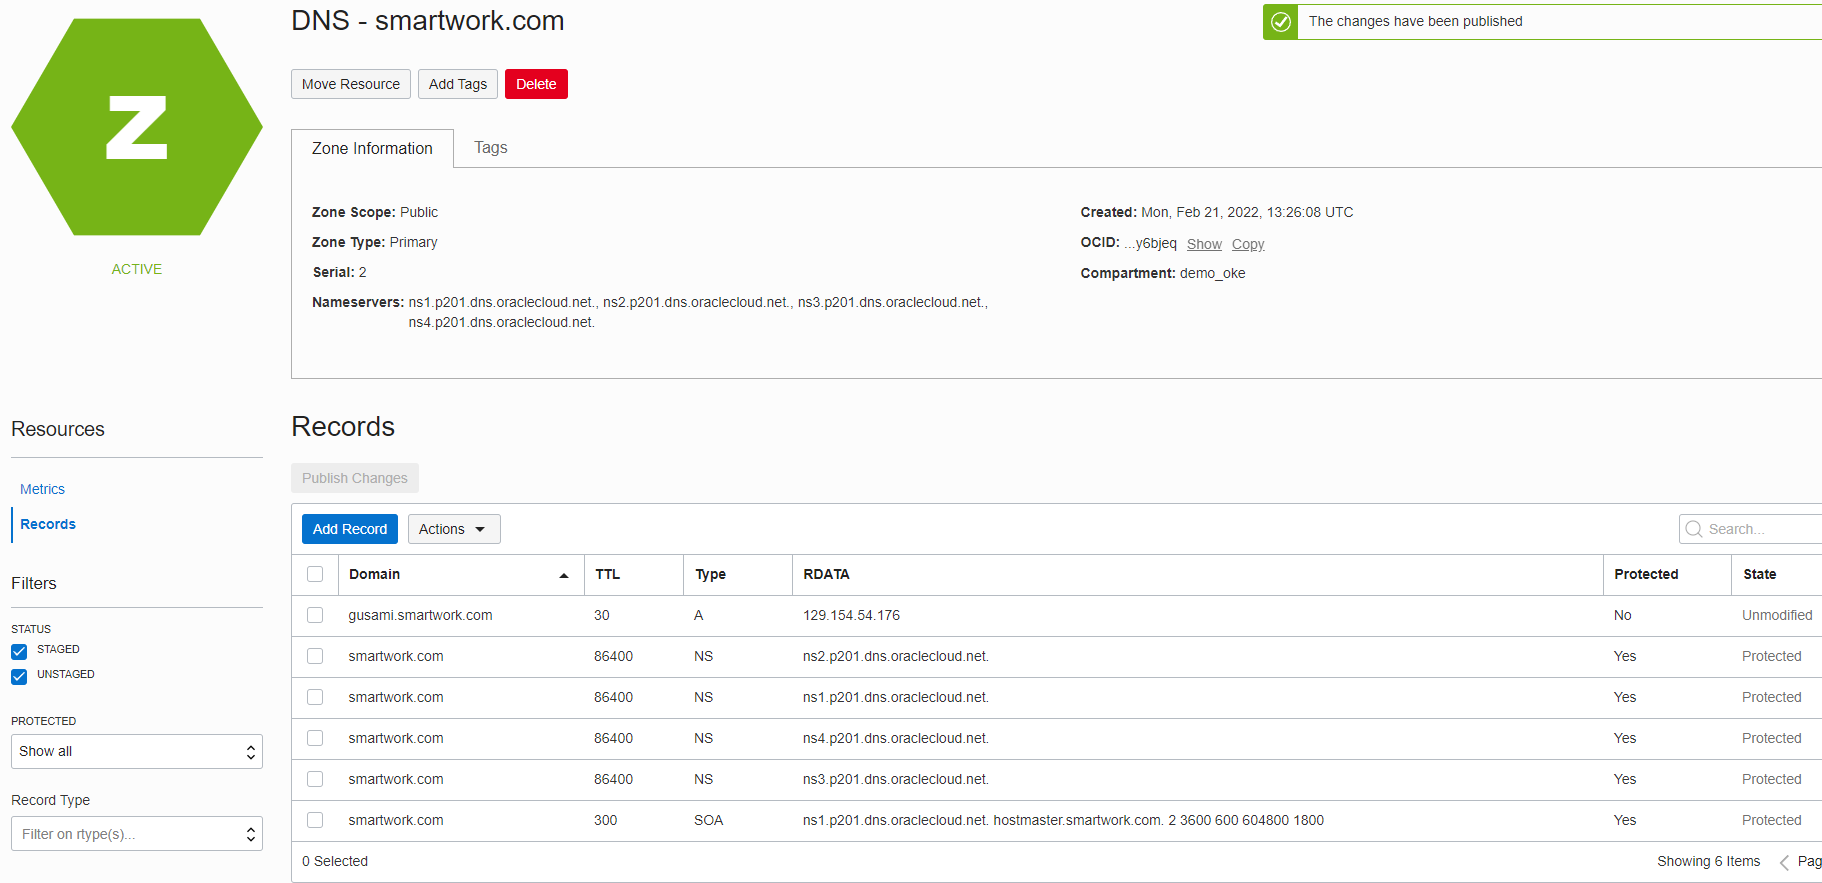
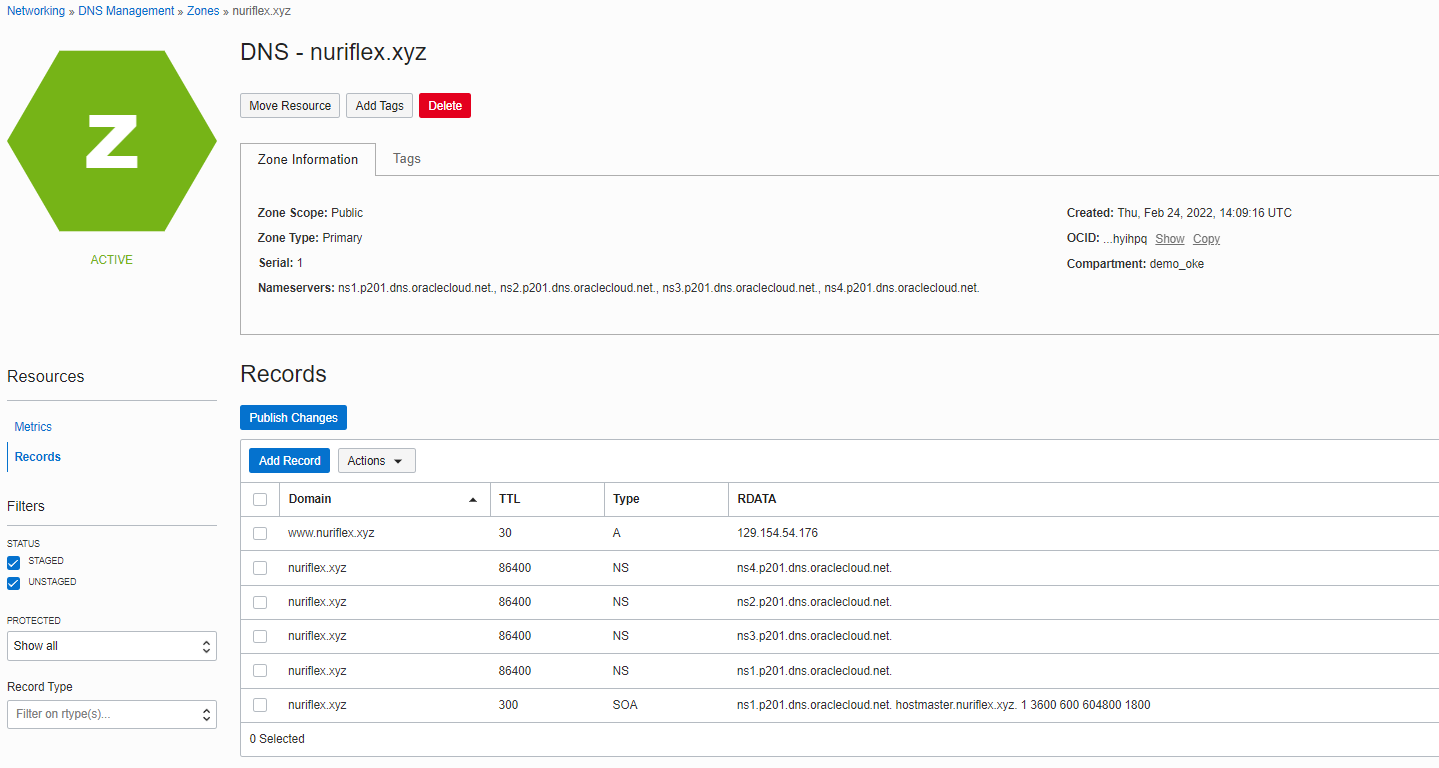
how to register new dns domain

diff --git a/README.md b/README.md
@@ -1361,7 +1361,11 @@ job.batch/ingress-nginx-admission-patch    1/1           7s         117m
 - SPF (Sender Policy Framework) 레코드
   - 레코드 TXT 레코드에 안에서 사용되며, 메일 스푸핑을 방지하는데 사용되는 레코드
   - 특정 사업체(네이버, 다음, 구글)의 메일을 보냈을때 반송이 안되는 경우가 있음
-    - 이때, 대부분 SPF 등록이 안되는 경우에 발생  
+    - 이때, 대부분 SPF 등록이 안되는 경우에 발생
+#### 실습 전 준비 사항
+- hosting.kr에서 회원 가입 후, 가장 싼 도메인을 구입
+![Buy_Domain_With_gmail_id](./images/Buy_Domain_With_gmail_id.png)
+- 구입한 Domain: ``nuriflex.xyz``
 #### 실습
 - Step 01. OCI 접속 > Networking > DNS Management > Zones  
 - Step 02. ``demo_oke`` compartment 선택
@@ -1380,4 +1384,6 @@ job.batch/ingress-nginx-admission-patch    1/1           7s         117m
 ![OKE_LoadBalancer_A_Record](./images/OKE_LoadBalancer_A_Record.png)
 - Step 07. ``Publish Changes`` 버튼을 클릭해서 반영 완료
 ![DNS_Record_List](./images/DNS_Record_List.png)
-- Step 08. 24시간이 지난 후, ``gusami.smartwork.com``에 접속해 보기
+- Step 08. hosting.kr에서 구입한 Domain에 대한 Name Server를 oci NS server들을 등록
+![RegisterDNSServer](./images/RegisterDNSServer.png)
+- Step 09. 24시간이 지난 후, ``www.nuriflex.xyz``에 접속해 보기
